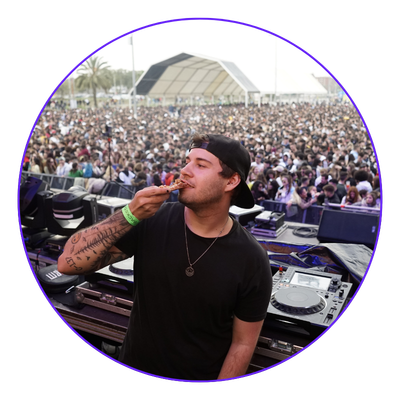
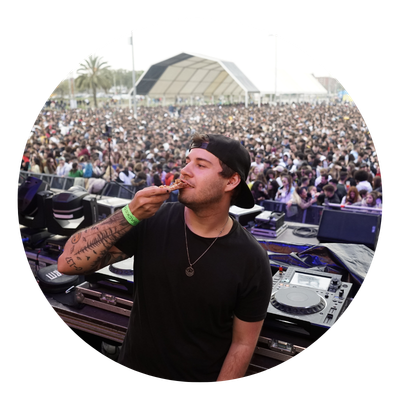
Roster F3LY: nueva foto sin halo + anillo género Urbano

diff --git a/index.html b/index.html
@@ -152,6 +152,7 @@ section{padding:120px 48px}
 .dj-avatar{width:72px;height:72px;background:var(--card);border-radius:50%;margin-bottom:24px;display:flex;align-items:center;justify-content:center;overflow:hidden;position:relative}
 .dj-avatar svg{width:52px;height:52px}
 .dj-avatar img{width:100%;height:100%;object-fit:cover;display:block}
+.dj-avatar.ring-urbano{border:2px solid var(--urb);box-sizing:border-box}
 .dj-name{font-family:'Barlow Condensed',sans-serif;font-weight:900;font-size:28px;text-transform:uppercase;letter-spacing:1px;margin-bottom:4px}
 .dj-genre{font-size:11px;letter-spacing:3px;text-transform:uppercase;margin-bottom:4px}
 .dj-genre.red{color:var(--red)}
@@ -536,8 +537,8 @@ footer::before{content:'';position:absolute;top:0;left:0;right:0;height:1.5px;ba
     <div class="roster-grid" id="rosterGrid">
       <!-- DJ A -->
       <div class="dj-card reveal" data-genres="urbano">
-        <div class="dj-avatar">
-          <img src="/images/f3ly-roster.png?v=1" width="400" height="400" alt="F3LY" decoding="async"/>
+        <div class="dj-avatar ring-urbano">
+          <img src="/images/f3ly-roster.png?v=2" width="400" height="400" alt="F3LY" decoding="async"/>
         </div>
         <div class="dj-name">F3LY</div>
         <div class="dj-genre urb" data-es="Techno / Industrial" data-en="Techno / Industrial">Urban</div>